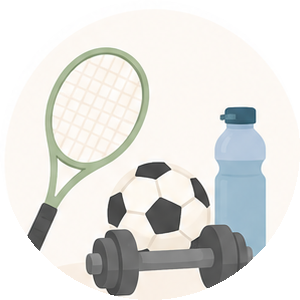
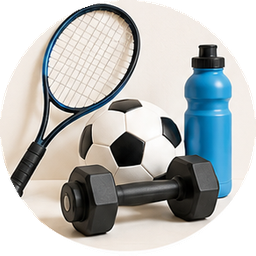
Icônes harmonisées : 6 univers d'accueil + groupes + Shopping enrichi
- 6 icônes d'univers d'accueil (Manger, Se divertir, Bouger&Nature, Shopping,
  Santé&Bien-être, Vie pratique) → icon-home-*.png, style cohérent.
- Groupes : Restauration/Commerces alimentaires (version enrichie) et
  Santé (sbe-sante) / Soins & bien-être (sbe-soins) branchés.
- Shopping : 8 sous-icônes remplacées par la version plus riche (moins pâle).

diff --git a/web/lib/icons.tsx b/web/lib/icons.tsx
@@ -136,19 +136,19 @@ export function iconForKey(key: string): Icon | null {
  */
 export const THEMATIC_ICONS: Record<string, string> = {
   // Manger / Food
-  manger: "/icon-food.png", food: "/icon-food.png", restauration: "/icon-food.png",
+  manger: "/icon-home-manger.png", food: "/icon-food.png", restauration: "/icon-food.png",
   // Bouger / Sports
-  bouger: "/icon-sports.png", sports: "/icon-sports.png", "bouger-sports": "/icon-sports.png",
+  bouger: "/icon-home-bouger.png", sports: "/icon-sports.png", "bouger-sports": "/icon-sports.png",
   // Se relaxer / Loisirs / Nature
   "se-relaxer": "/icon-loisirs.png", activites: "/icon-loisirs.png", "bouger-nature": "/icon-loisirs.png",
   // Shopping
-  shopping: "/icon-shopping.png", "malls-shopping": "/icon-shopping.png", "types-shopping": "/icon-shopping.png",
+  shopping: "/icon-home-shopping.png", "malls-shopping": "/icon-shopping.png", "types-shopping": "/icon-shopping.png",
   // Famille
   famille: "/icon-famille.png",
   // Pratique / Utiles
-  pratique: "/icon-pratique.png", utiles: "/icon-pratique.png",
+  pratique: "/icon-home-pratique.png", utiles: "/icon-pratique.png",
   // Univers Santé & Bien-être (placeholder en attendant l'harmonisation des icônes)
-  "sante-bien-etre": "/icon-spa-instituts.png",
+  "sante-bien-etre": "/icon-home-sante.png",
   // Univers Famille (rubriques + sous-rubriques education). « kids-friendly » est
   // aussi affiché comme rubrique dans l'univers Famille (cf. DirectoryClient).
   "activites-enfants-famille": "/icon-activites-enfants-famille.png",
@@ -160,7 +160,7 @@ export const THEMATIC_ICONS: Record<string, string> = {
   // Médecins / santé
   medecins: "/icon-medecins.png",
   // Sortir
-  sortir: "/icon-sortir.png",
+  sortir: "/icon-home-sortir.png",
   // Univers Premium
   evenements: "/icon-evenements.png",
   "seconde-main": "/icon-secondemain.png",
@@ -272,6 +272,9 @@ export const THEMATIC_ICONS: Record<string, string> = {
   // Tuiles de groupe sous Manger (niveau intermédiaire)
   "manger-restauration": "/icon-restauration.png",
   "manger-commerces": "/icon-commerces-alimentaires.png",
+  // Tuiles de groupe sous Santé & Bien-être
+  "sbe-sante": "/icon-sbe-sante.png",
+  "sbe-soins": "/icon-sbe-soins.png",
 };
 
 /** Chemin d'une icône thématique illustrée pour une clé, ou null. */
